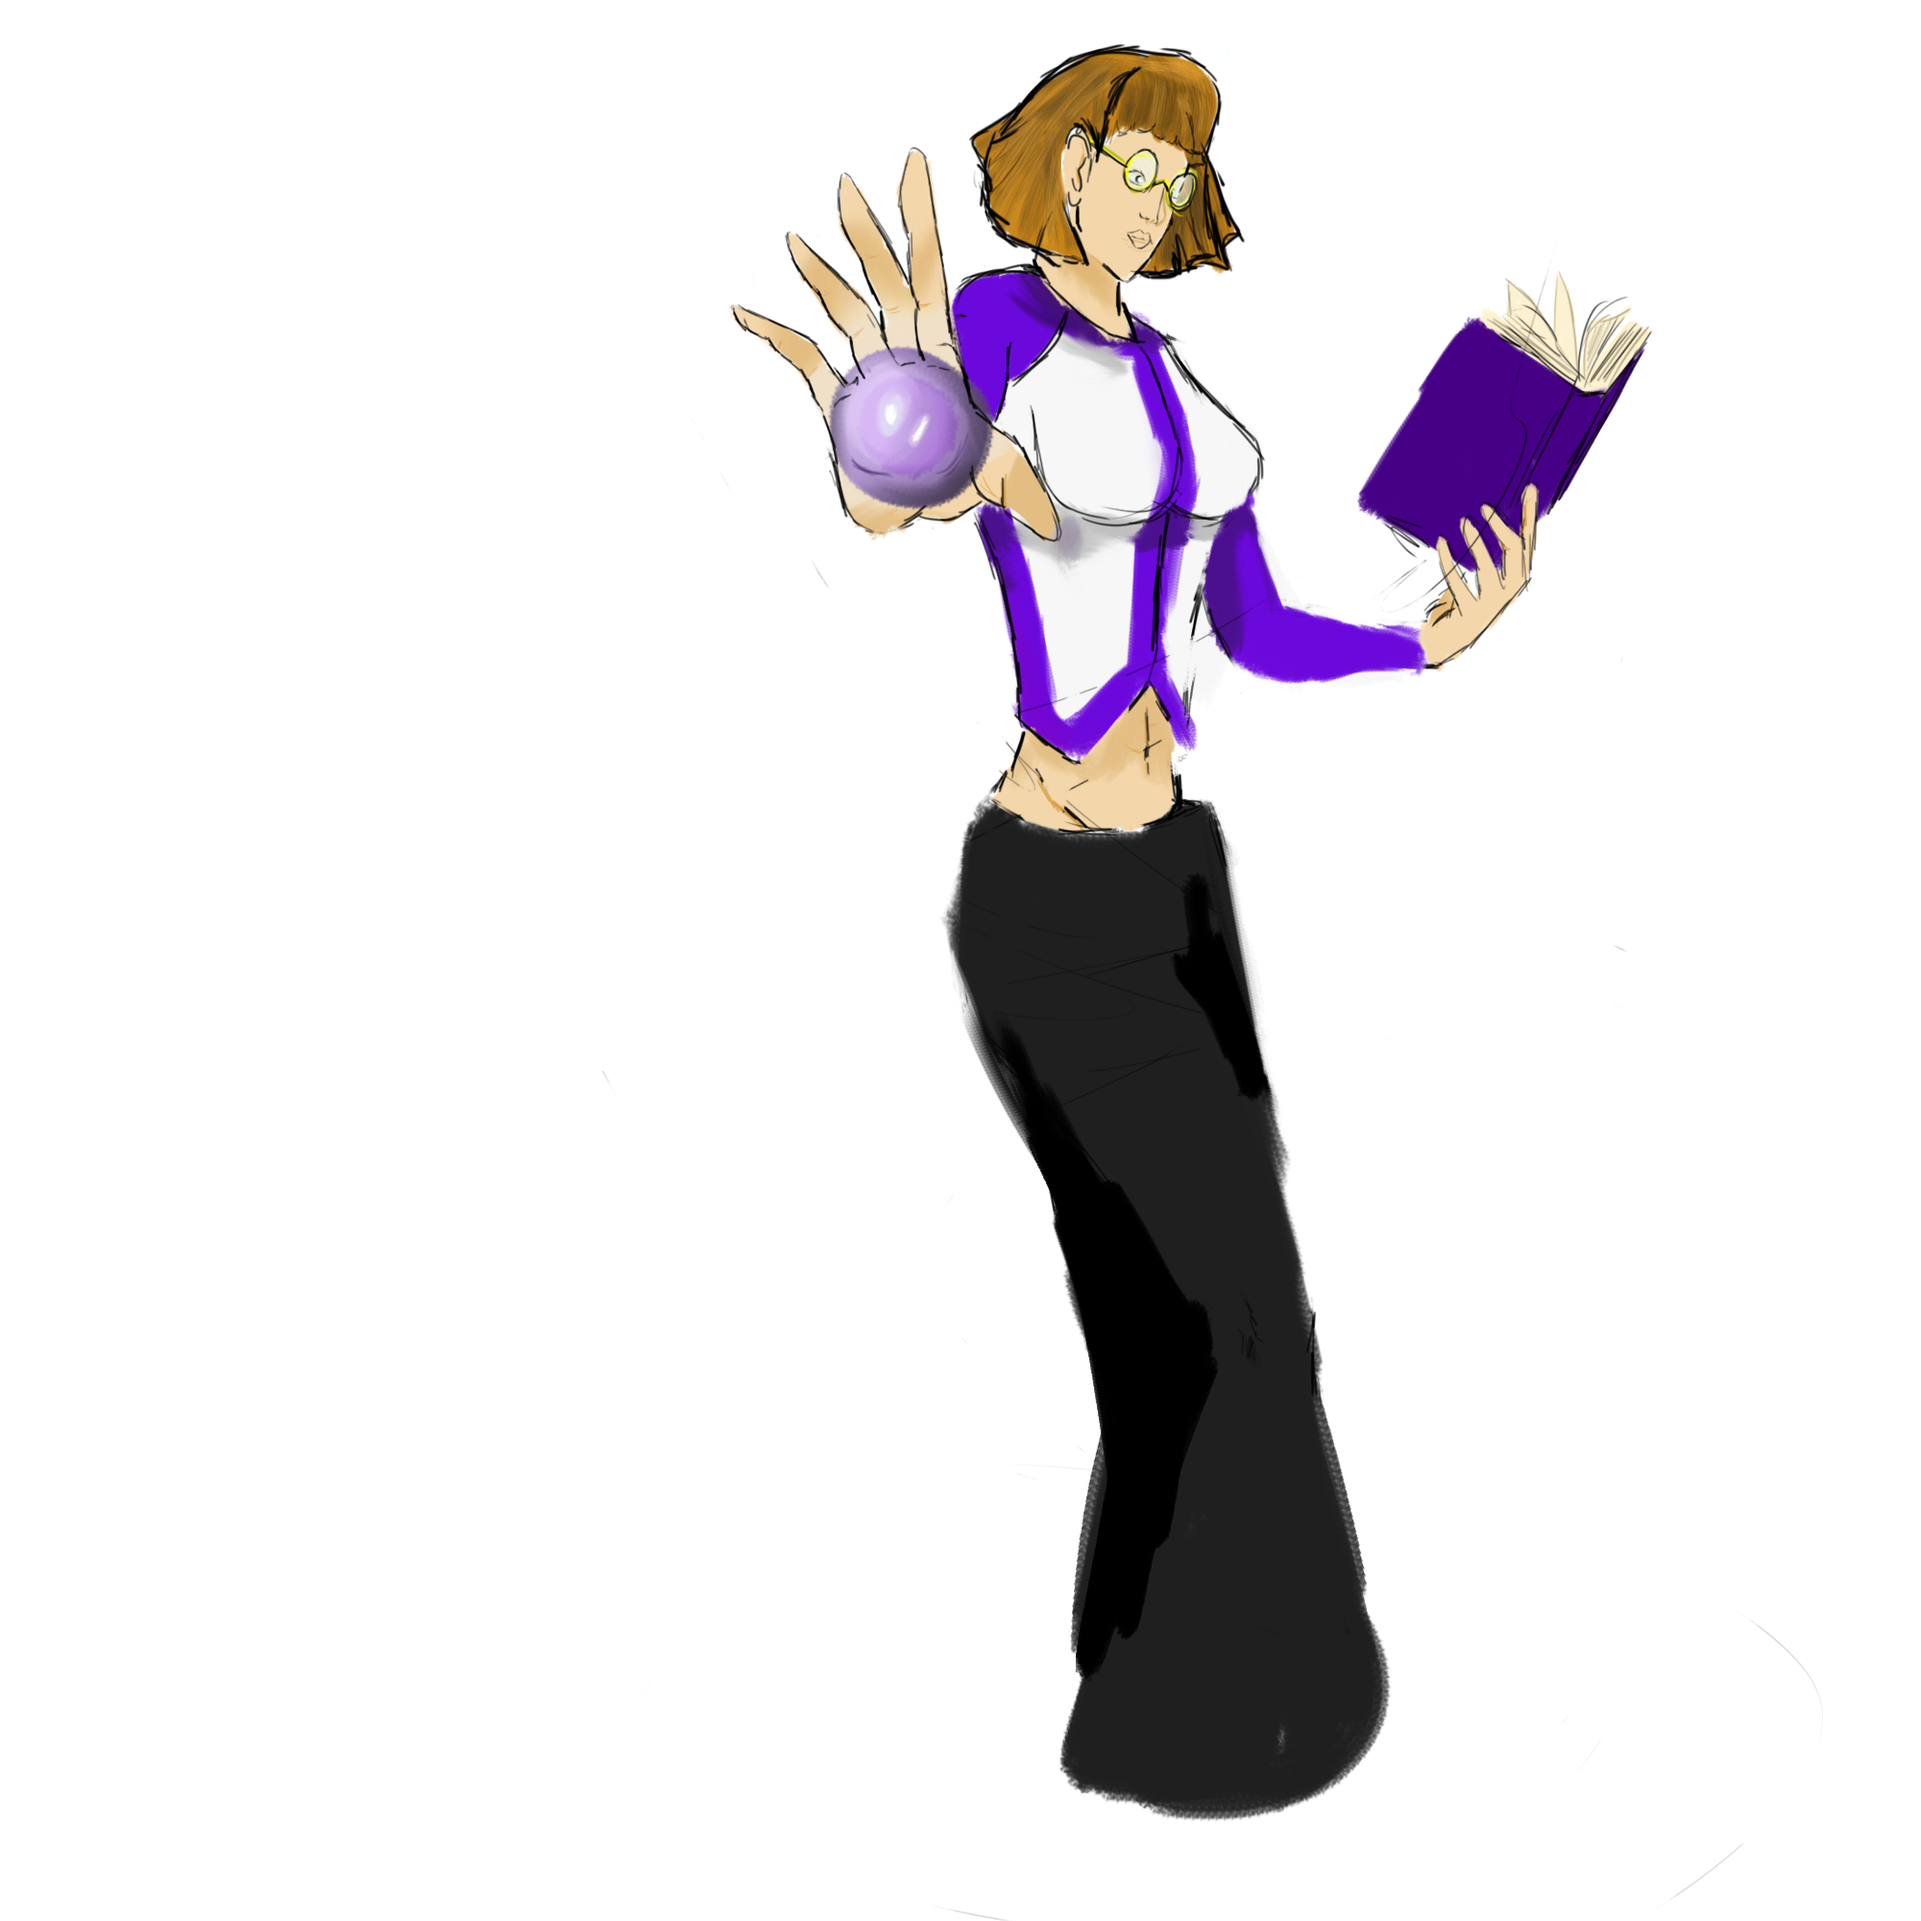
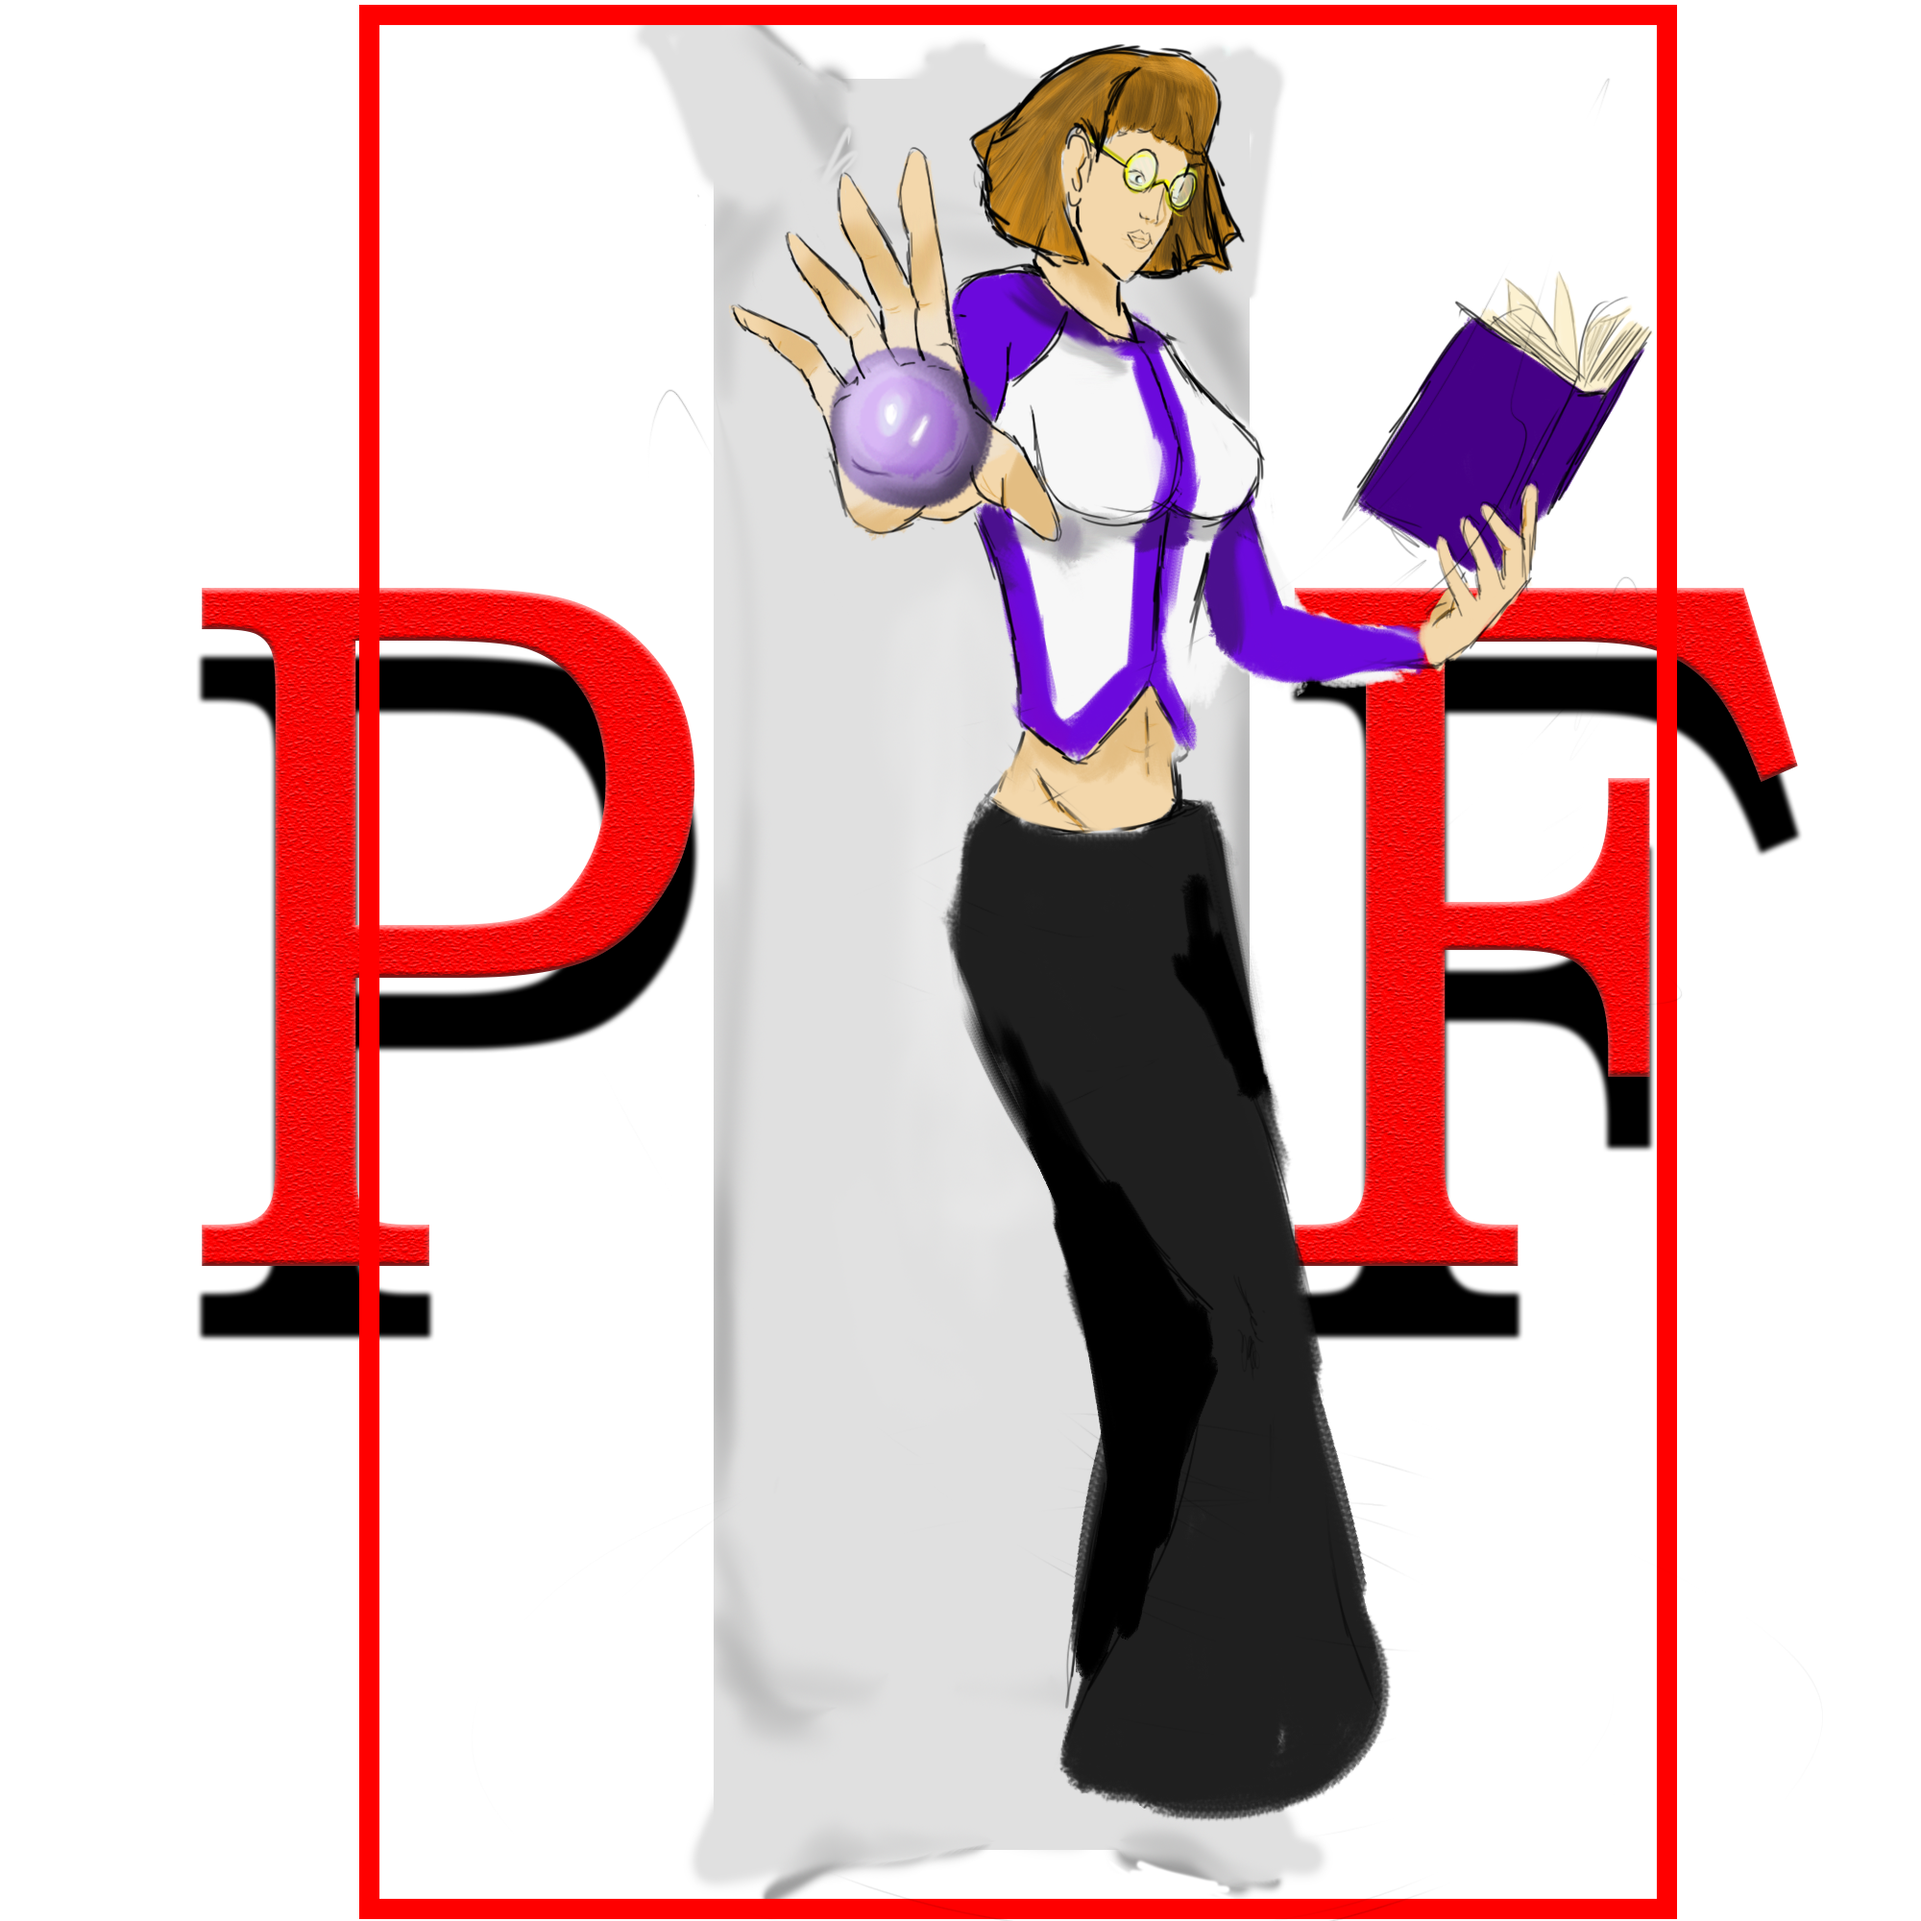
Update 2.1
Cambiado:
Personajes.
Armas.
Tipografía.

Changed region(s): [[0.093, 0.0, 0.961, 1.0], [0.744, 0.155, 0.775, 0.186], [0.713, 0.217, 0.744, 0.248]]

diff --git a/index.html b/index.html
@@ -5,9 +5,8 @@
 <meta name="viewport" content="width=device-width, initial-scale=1">
 <link rel="icon" href="logo.png" type="image/x-icon">
 <link rel="stylesheet" href="https://www.w3schools.com/w3css/4/w3.css">
-<link rel="stylesheet" href="https://fonts.googleapis.com/css?family=Raleway">
 <style>
-body,h1,h2,h3,h4,h5 {font-family: "Raleway", sans-serif}
+body,h1,h2,h3,h4,h5 {font-family: Papyrus,fantasy}
 .w3-quarter img{margin-bottom: -6px; cursor: pointer}
 .w3-quarter img:hover{opacity: 0.6; transition: 0.3s}
 body {
@@ -72,7 +71,7 @@ body {
     
    <div class="w3-quarter">
       <img src="delphi.png" style="width:100%" onclick="onClick(this)" alt="Delphi">
-      <img src="akuno.jpg" style="width:100%" onclick="onClick(this)" alt="Akuno">
+      <img src="akuno.png" style="width:100%" onclick="onClick(this)" alt="Akuno">
     </div>
     
     <div class="w3-quarter">
@@ -81,7 +80,7 @@ body {
     </div>
 
     <div class="w3-quarter">
-      <img src="rengoku.jpg" style="width:100%" onclick="onClick(this)" alt="Rengoku">
+      <img src="rengoku.png" style="width:100%" onclick="onClick(this)" alt="Rengoku">
       <img src="proximamente.png" style="width:100%" onclick="onClick(this)" alt="Proximamente 2">
     </div>
   </div>
@@ -103,15 +102,17 @@ body {
   <div class="w3-row">
     <div class="w3-quarter">
       <img src="tomahawk.png" style="width:100%" onclick="onClick(this)" alt="Tomahawk de Makelele">
+	  <img src="bambu.png" style="width:100%" onclick="onClick(this)" alt="Bambú de Forsac">
     </div>
     <div class="w3-quarter">
       <img src="spellbook.png" style="width:100%" onclick="onClick(this)" alt="Libro de hechizos de Delphi">
+	  <img src="cerebro.png" style="width:100%" onclick="onClick(this)" alt="Cerebro de Akuno">
     </div>
     <div class="w3-quarter">
       <img src="pistola.png" style="width:100%" onclick="onClick(this)" alt="Pistola de Valador">
     </div>
     <div class="w3-quarter">
-      <img src="katana.jpg" style="width:100%" onclick="onClick(this)" alt="Katana de Rengoku">
+      <img src="katana.png" style="width:100%" onclick="onClick(this)" alt="Katana de Rengoku">
     </div>
   </div>
 </div>
@@ -138,7 +139,7 @@ body {
   <h2 class="w3-content" style="max-width:600px">Música</h2>
 </div>
 <div class="w3-main w3-content w3-center w3-text-white" style="max-width:1600px">
-  <h4 class="w3-content w3-center" style="max-width:600px; margin-top:40px">Pillow Fights</h4>
+  <h4 class="w3-content w3-center" style="max-width:600px; margin-top:40px">Akuno's Theme</h4>
   <audio controls>
     <source src="akuno's_theme.mp3" type="audio/mpeg">
   </audio>
@@ -283,9 +284,9 @@ body {
 <script>
     var disqus_config = function () {
     this.page.url = https://equipodmmm2021.github.io/index.html;
-    this.page.identifier = PAGE_IDENTIFIER; // Replace PAGE_IDENTIFIER with your page's unique identifier variable
+    this.page.identifier = https://equipodmmm2021.github.io/index.html;
     };
-    */
+	
     (function() { // DON'T EDIT BELOW THIS LINE
     var d = document, s = d.createElement('script');
     s.src = 'https://https-equipodmmm2021-github-io.disqus.com/embed.js';
